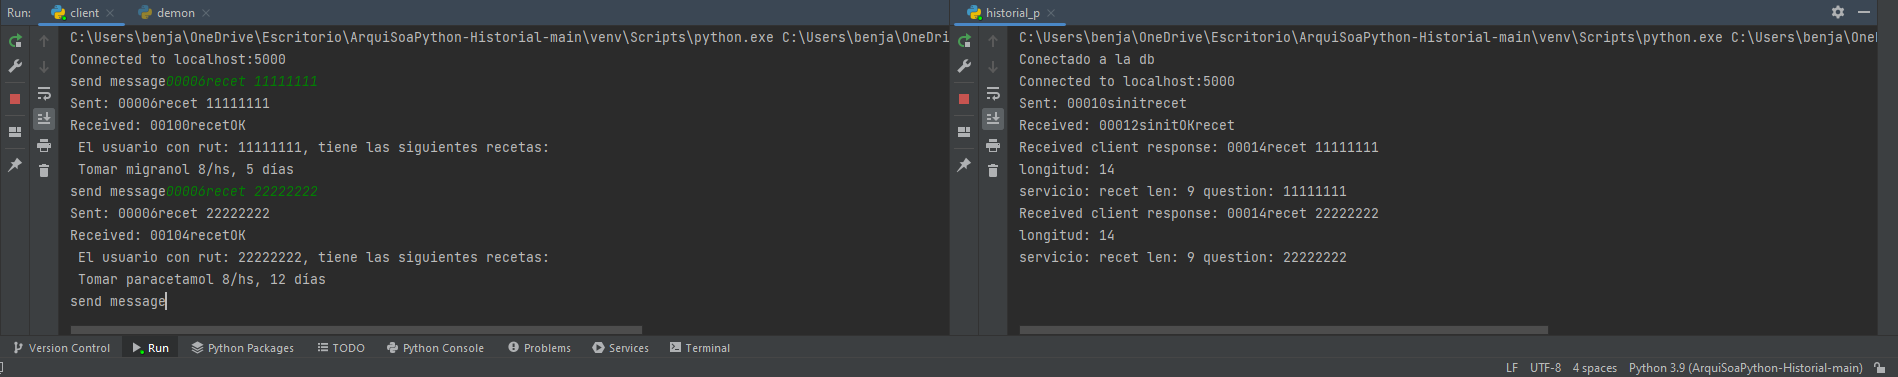
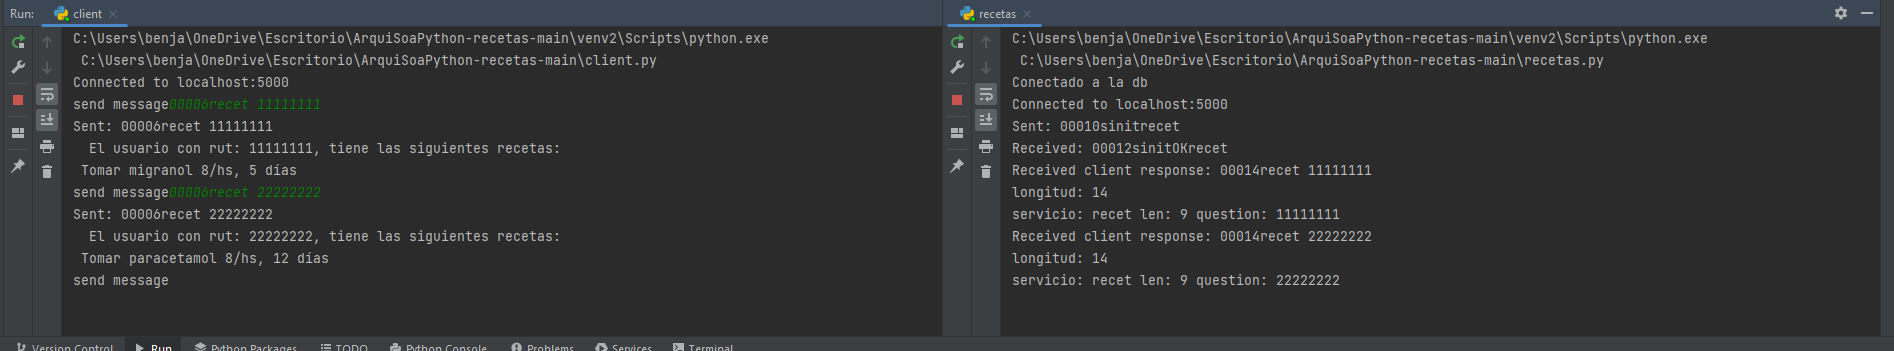
Add files via upload

diff --git a/client.py b/client.py
@@ -22,7 +22,8 @@ try:
 
         # Receive the server's response
         response = sock.recv(1024).decode()
-        print('Received: {}'.format(response))
+        mensaje = 'Received: {}'.format(response)
+        print(mensaje[22:])
 
 
 finally:
